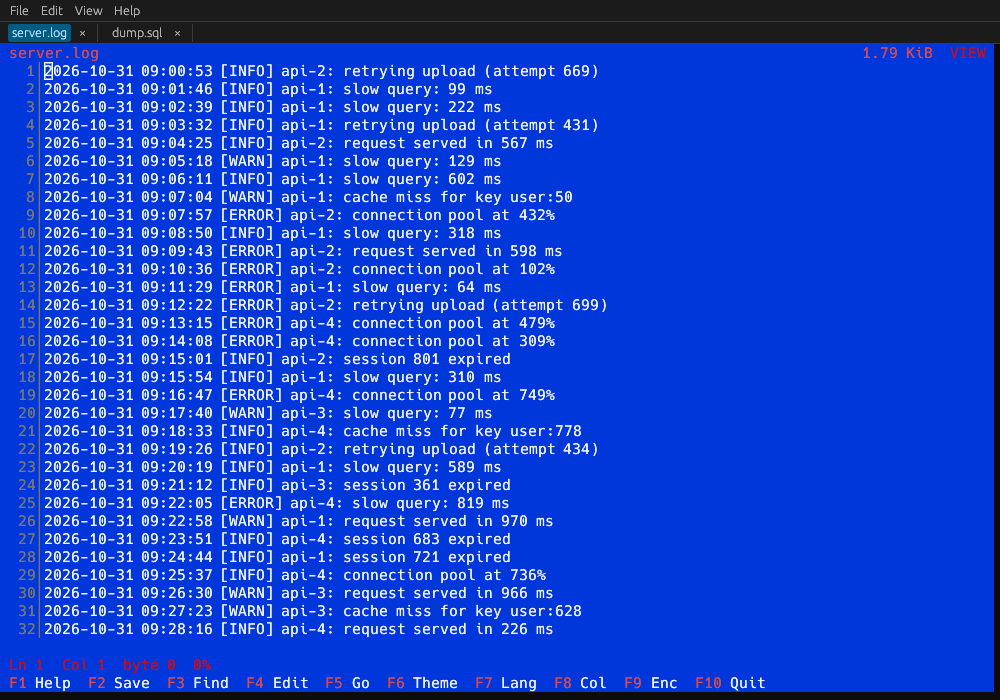
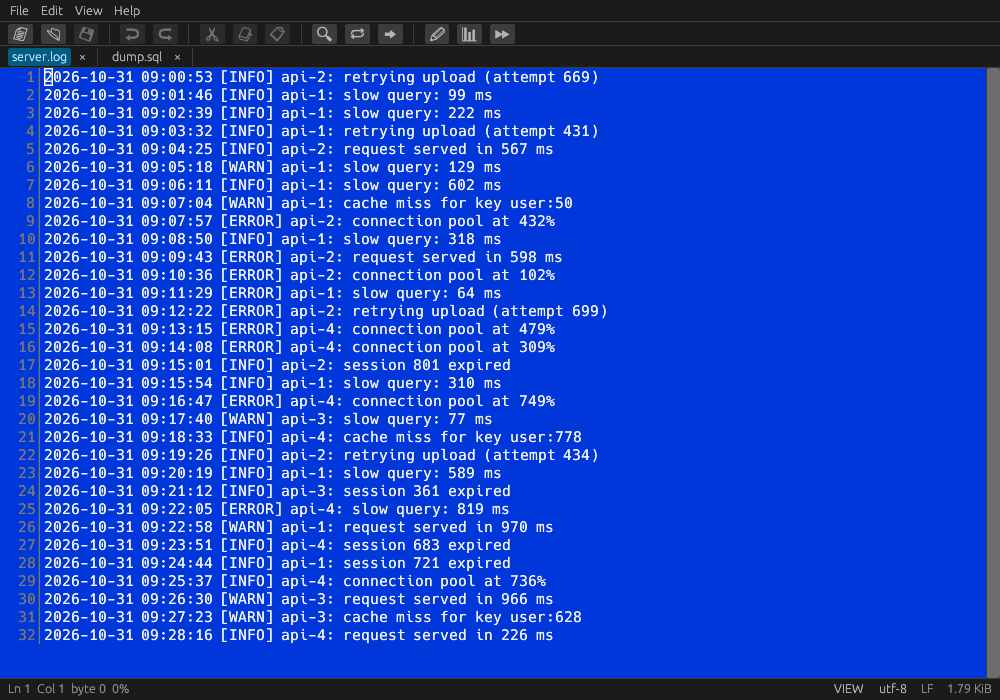
Fondo del tema attorno alla griglia, nuove schermate e README della finestra (B6)
Claude-Session: https://claude.ai/code/session_01VDQSbnQ7zjbDG95g4ox1oC

Changed region(s): [[0.0, 0.03, 1.0, 0.99]]

diff --git a/rust/crates/mrp-gui/src/gui.rs b/rust/crates/mrp-gui/src/gui.rs
@@ -103,6 +103,9 @@ pub struct Finestra {
     /// Le voci del menu contestuale nell'ultimo disegno e il rettangolo di tutto il menu (vuote / `NOTHING`: chiuso).
     contestuale_voci: Vec<(Rect, Cmd)>,
     contestuale_rect: Rect,
+    /// Il colore di fondo della griglia nell'ultimo disegno (l'ultima cella): riempie anche il resto dell'area che non
+    /// basta per una riga o una colonna intera.
+    fondo: [u8; 3],
 }
 
 impl Finestra {
@@ -173,6 +176,7 @@ impl Finestra {
             contestuale: None,
             contestuale_voci: Vec::new(),
             contestuale_rect: Rect::NOTHING,
+            fondo: BG_PREDEFINITO,
         }
     }
 
@@ -218,6 +222,11 @@ impl Finestra {
     /// vuote se e' chiuso.
     pub fn contestuale_voci(&self) -> &[(Rect, Cmd)] {
         &self.contestuale_voci
+    }
+
+    /// Il colore di fondo della griglia nell'ultimo disegno (per i test).
+    pub fn fondo(&self) -> [u8; 3] {
+        self.fondo
     }
 
     /// L'`App` della scheda attiva (per i test).
@@ -1010,7 +1019,7 @@ impl Finestra {
             self.presa_scroll = None;
         }
         egui::CentralPanel::default()
-            .frame(Frame::NONE.fill(paint::colore(BG_PREDEFINITO)))
+            .frame(Frame::NONE.fill(paint::colore(self.fondo)))
             .show(ctx, |ui| {
                 let area = ui.available_rect_before_wrap();
                 let colonne = input::celle_in(area.width(), cella.x, COLONNE_MIN);
@@ -1021,6 +1030,9 @@ impl Finestra {
                 }
                 self.ws.tick();
                 let griglia = render_grid_workspace(&mut self.ws, colonne, righe);
+                if let Some(c) = griglia.celle.last() {
+                    self.fondo = c.bg;
+                }
                 // testo asiatico in un file che non lo dichiara (UTF-8, UTF-16...): il font si carica al primo che si vede
                 let mut nuova = false;
                 for c in griglia.celle.iter().flat_map(|c| c.simbolo.chars()) {

diff --git a/rust/crates/mrp-gui/tests/tema.rs b/rust/crates/mrp-gui/tests/tema.rs
@@ -145,3 +145,18 @@ fn picking_a_theme_in_the_menu_switches_the_controls() {
     assert!(!scuri(&ctx), "i controlli sono passati al chiaro");
     let _ = std::fs::remove_file(p);
 }
+
+#[test]
+fn the_area_around_the_grid_has_the_theme_background() {
+    // il resto dell'area che non basta per una riga intera non e' piu' nero: ha il fondo del tema (Scuro #1e1e1e, Chiaro bianco)
+    for (tema, fondo) in [
+        (ThemeId::Dark, [0x1e, 0x1e, 0x1e]),
+        (ThemeId::Light, [0xff, 0xff, 0xff]),
+    ] {
+        let (mut f, ctx, p) = finestra(tema);
+        giro(&mut f, &ctx, vec![]);
+        giro(&mut f, &ctx, vec![]);
+        assert_eq!(f.fondo(), fondo, "{tema:?}");
+        let _ = std::fs::remove_file(p);
+    }
+}

diff --git a/README.it.md b/README.it.md
@@ -11,7 +11,7 @@
       </p>
       <p>
         <a href="https://github.com/heavymanto/Manto.RustPad/actions/workflows/ci.yml"><img src="https://github.com/heavymanto/Manto.RustPad/actions/workflows/ci.yml/badge.svg" alt="CI" /></a>
-        <img src="https://img.shields.io/badge/test-960-brightgreen" alt="960 test" />
+        <img src="https://img.shields.io/badge/test-961-brightgreen" alt="961 test" />
         <img src="https://img.shields.io/badge/programmi-mrp--tui%20%C2%B7%20mrp--gui-blue" alt="mrp-tui e mrp-gui" />
         <img src="https://img.shields.io/badge/lingue-7-blue" alt="sette lingue" />
         <img src="https://img.shields.io/badge/licenza-AGPL--3.0-brightgreen" alt="AGPL-3.0" />
@@ -23,8 +23,8 @@
 </table>
 
 <div align="center">
-<img src="docs/img/gui-console.png" alt="mrp-gui, la finestra: due schede, numeri di riga, i tasti nel piede" width="80%" />
-<br /><sub><b>mrp-gui</b> — lo stesso editor, disegnato in una finestra: un log e un dump SQL aperti in due schede.</sub>
+<img src="docs/img/gui-light.png" alt="mrp-gui, la finestra: barra dei menu, barra degli strumenti, due schede, numeri di riga, barra di stato e scorrimento" width="80%" />
+<br /><sub><b>mrp-gui</b> — la finestra: menu, barra degli strumenti, schede, barra di stato e scorrimento, con un log e un dump SQL aperti in due schede.</sub>
 </div>
 
 ---
@@ -79,17 +79,18 @@ compilalo dai sorgenti: bastano due comandi, vedi l'[Avvio rapido](#avvio-rapido
 
 | `mrp-tui` — nel terminale | `mrp-gui` — in una finestra |
 |:---:|:---:|
-| ![mrp-tui: il dialogo Sostituisci con l'anteprima, nel terminale](docs/img/tui-replace.png) | ![mrp-gui: lo stesso editor in una finestra](docs/img/gui-night.png) |
+| ![mrp-tui: il dialogo Sostituisci con l'anteprima, nel terminale](docs/img/tui-replace.png) | ![mrp-gui: la finestra, tema scuro](docs/img/gui-dark.png) |
 
 | | `mrp-tui` | `mrp-gui` |
 | --- | --- | --- |
-| **Cos'è** | un editor a tutto schermo per qualsiasi terminale (ratatui) | lo stesso editor disegnato in una finestra (egui), con gli appunti di sistema, i caratteri CJK e il trascinamento dei file |
-| **Avvio** | `mrp-tui file...` | `mrp-gui file...` (senza file apre il dialogo di apertura) |
-| **Menu** | i tasti funzione, mostrati nel piede (`F1` = aiuto) | una barra dei menu (File, Modifica, Visualizza, Aiuto) e il dialogo nativo di apertura |
+| **Cos'è** | un editor a tutto schermo per qualsiasi terminale (ratatui), pensato per server e SSH | un'applicazione desktop (egui): menu, barra degli strumenti, barra di stato, scorrimento e dialoghi veri, gli appunti di sistema, i caratteri CJK e il trascinamento dei file |
+| **Avvio** | `mrp-tui file...` | `mrp-gui file...` (senza file riprende l'ultima sessione, o apre un "Senza nome 1" vuoto) |
+| **Menu** | i tasti funzione, mostrati nel piede (`F1` = aiuto) | una barra dei menu (File, Modifica, Visualizza, Aiuto), una barra degli strumenti con le icone, il menu del tasto destro e i dialoghi nativi di apertura e salvataggio |
 | **Schede** | una barra sulla prima riga, una scheda per file | una striscia con il pulsante di chiusura per ogni scheda |
+| **Aspetto** | quattro temi da terminale | sei temi; segue l'impostazione chiaro / scuro del sistema finché non ne scegli uno |
 | **Il mouse** | posiziona il cursore, seleziona (doppio clic: parola, triplo: riga), sceglie la scheda | lo stesso, e il clic centrale chiude una scheda |
 
-Sono **lo stesso codice**: la logica dell'editor sta in un posto solo e `mrp-gui` si limita a disegnarne la griglia di celle. Una funzione aggiunta a uno c'è anche nell'altro.
+Condividono **un solo motore**: la logica dell'editor (documenti, schede, ricerca, modifiche, sessioni) sta in un posto solo; `mrp-gui` disegna il testo come la stessa griglia di celle, ma la avvolge nei propri controlli nativi. Una funzione aggiunta al motore c'è in entrambi.
 
 ## Cosa fa
 
@@ -108,7 +109,7 @@ Sono **lo stesso codice**: la logica dell'editor sta in un posto solo e `mrp-gui
 - **Onesto con le codifiche.** UTF-8, UTF-16 e UTF-32 (little e big endian, coppie surrogate comprese), 52 tabelle di caratteri a byte singolo
   (Windows-125x e 874, ISO-8859-x, DOS 437/850/855/…, KOI8, i set Mac, US-ASCII) e le codifiche asiatiche a più byte (Shift_JIS, EUC-JP,
   GBK, GB18030, Big5, EUC-KR), su file più grandi della RAM. Si scelgono con `F9` o `--encoding`, o si riconoscono all'apertura (quelle a più byte non si indovinano mai: si scelgono a mano).
-- **Quattro temi e sette lingue** (English, Deutsch, Español, Italiano, 日本語, Português do Brasil, 简体中文), che si cambiano al volo con `F6` / `F7`.
+- **Sei temi e sette lingue** (English, Deutsch, Español, Italiano, 日本語, Português do Brasil, 简体中文), che si cambiano al volo con `F6` / `F7`.
 
 Fuori dagli obiettivi: un analizzatore di log (usa lnav, logana, klogg) e una piattaforma di plugin/IDE.
 
@@ -119,7 +120,9 @@ Fuori dagli obiettivi: un analizzatore di log (usa lnav, logana, klogg) e una pi
 | ![night](docs/img/gui-night.png) | ![debian](docs/img/gui-debian.png) |
 | `night` | `debian` |
 | ![console](docs/img/gui-console.png) | ![minimal](docs/img/gui-minimal.png) |
-| `console` (il predefinito) | `minimal` |
+| `console` (il predefinito nel terminale) | `minimal` |
+| ![dark](docs/img/gui-dark.png) | ![light](docs/img/gui-light.png) |
+| `dark` (scuro) | `light` (chiaro) |
 
 L'immagine del terminale in *Due programmi* mostra Sostituisci con la sua anteprima prima che cambi qualcosa (`Ctrl+H`, poi `Alt+M` per il modo, `Alt+C` per le maiuscole, `Alt+A` per l'ambito).
 <sub>È generata dal testo dell'opzione `--dump` dell'editor, quindi è senza colori; il terminale vero usa quelli del tema.</sub>
@@ -145,7 +148,7 @@ Per provare le funzioni a più file: `mrp-tui a.txt b.txt c.txt`, poi `Ctrl+H`, 
 
 ## Limiti noti
 
-- **Sviluppo iniziale.** L'editor funziona ed è coperto da 960 test automatici (più 3 su file da 6 GB oltre i 4 GiB, da lanciare a richiesta), ma non è stato
+- **Sviluppo iniziale.** L'editor funziona ed è coperto da 961 test automatici (più 3 su file da 6 GB oltre i 4 GiB, da lanciare a richiesta), ma non è stato
   usato a lungo da molte persone. Tieni una copia di ciò che conta.
 - **Prima di tutto Windows.** È stato usato soprattutto su Windows. L'editor da terminale e tutto il motore (con i loro test) sono stati provati anche su **Linux** (Debian, sotto WSL);
   la finestra `mrp-gui` su Linux/macOS e macOS in generale non sono provati. La CI lancia i test su tutti e tre i sistemi a ogni push.

diff --git a/README.md b/README.md
@@ -11,7 +11,7 @@
       </p>
       <p>
         <a href="https://github.com/heavymanto/Manto.RustPad/actions/workflows/ci.yml"><img src="https://github.com/heavymanto/Manto.RustPad/actions/workflows/ci.yml/badge.svg" alt="CI" /></a>
-        <img src="https://img.shields.io/badge/tests-960-brightgreen" alt="960 tests" />
+        <img src="https://img.shields.io/badge/tests-961-brightgreen" alt="961 tests" />
         <img src="https://img.shields.io/badge/frontends-mrp--tui%20%C2%B7%20mrp--gui-blue" alt="mrp-tui and mrp-gui" />
         <img src="https://img.shields.io/badge/languages-7-blue" alt="seven languages" />
         <img src="https://img.shields.io/badge/license-AGPL--3.0-brightgreen" alt="AGPL-3.0" />
@@ -23,8 +23,8 @@
 </table>
 
 <div align="center">
-<img src="docs/img/gui-console.png" alt="mrp-gui, the desktop window: two tabs, line numbers, the keys in the footer" width="80%" />
-<br /><sub><b>mrp-gui</b> — the same editor, drawn in a window: a log and a SQL dump open in two tabs.</sub>
+<img src="docs/img/gui-light.png" alt="mrp-gui, the desktop window: menu bar, toolbar, two tabs, line numbers, status bar and scrollbar" width="80%" />
+<br /><sub><b>mrp-gui</b> — the desktop window: menu, toolbar, tabs, status bar and scrollbar, with a log and a SQL dump open in two tabs.</sub>
 </div>
 
 ---
@@ -79,17 +79,18 @@ The packages (a ZIP for Windows, a tar.gz for Linux and macOS, each with its SHA
 
 | `mrp-tui` — in the terminal | `mrp-gui` — in a window |
 |:---:|:---:|
-| ![mrp-tui: the Replace dialog with a preview, in the terminal](docs/img/tui-replace.png) | ![mrp-gui: the same editor in a desktop window](docs/img/gui-night.png) |
+| ![mrp-tui: the Replace dialog with a preview, in the terminal](docs/img/tui-replace.png) | ![mrp-gui: the desktop window, dark theme](docs/img/gui-dark.png) |
 
 | | `mrp-tui` | `mrp-gui` |
 | --- | --- | --- |
-| **What it is** | a full-screen editor for any terminal (ratatui) | the same editor drawn in a window (egui), with the system clipboard, CJK fonts and drag-and-drop |
-| **Start it** | `mrp-tui file...` | `mrp-gui file...` (without a file it opens the file dialog) |
-| **Menus** | the function keys, shown in the footer (`F1` = help) | a menu bar (File, Edit, View, Help) and the native open dialog |
+| **What it is** | a full-screen editor for any terminal (ratatui), made for servers and SSH | a desktop application (egui): real menus, toolbar, status bar, scrollbar and dialogs, the system clipboard, CJK fonts and drag-and-drop |
+| **Start it** | `mrp-tui file...` | `mrp-gui file...` (without a file it restores the last session, or opens an empty "Untitled 1") |
+| **Menus** | the function keys, shown in the footer (`F1` = help) | a menu bar (File, Edit, View, Help), a toolbar with icons, a right-click menu and the native open / save dialogs |
 | **Tabs** | a bar on the first row, one tab per file | a strip with a close button per tab |
+| **Look** | four terminal themes | six themes; follows the system light / dark setting until you pick one |
 | **The mouse** | positions the cursor, selects (double click: word, triple click: row), picks a tab | the same, and middle-click closes a tab |
 
-Both are the **same code**: the editor's logic lives in one place and `mrp-gui` just draws its cell grid. A feature added to one is in the other.
+Both share **one engine**: the editor's logic (documents, tabs, search, edits, sessions) lives in one place; `mrp-gui` draws the text as the same cell grid but wraps it in its own native controls. A feature added to the engine is in both.
 
 ## What it does
 
@@ -108,7 +109,7 @@ Both are the **same code**: the editor's logic lives in one place and `mrp-gui` 
 - **Honest about encodings.** UTF-8, UTF-16 and UTF-32 (little and big endian, surrogate pairs included), 52 single-byte code pages
   (Windows-125x and 874, ISO-8859-x, DOS 437/850/855/…, KOI8, the Mac sets, US-ASCII) and the East-Asian multi-byte encodings (Shift_JIS, EUC-JP,
   GBK, GB18030, Big5, EUC-KR) — on files larger than RAM. Chosen with `F9` or `--encoding`, or recognised at open (the multi-byte ones are never guessed: pick them by hand).
-- **Four themes and seven languages** (English, Deutsch, Español, Italiano, 日本語, Português do Brasil, 简体中文), changed on the fly with `F6` / `F7`.
+- **Six themes and seven languages** (English, Deutsch, Español, Italiano, 日本語, Português do Brasil, 简体中文), changed on the fly with `F6` / `F7`.
 
 Non-goals: a log analyser (use lnav, logana, klogg) and a plugin/IDE platform.
 
@@ -119,7 +120,9 @@ Non-goals: a log analyser (use lnav, logana, klogg) and a plugin/IDE platform.
 | ![night](docs/img/gui-night.png) | ![debian](docs/img/gui-debian.png) |
 | `night` | `debian` |
 | ![console](docs/img/gui-console.png) | ![minimal](docs/img/gui-minimal.png) |
-| `console` (the default) | `minimal` |
+| `console` (the default in the terminal) | `minimal` |
+| ![dark](docs/img/gui-dark.png) | ![light](docs/img/gui-light.png) |
+| `dark` | `light` |
 
 The terminal picture in *Two front ends* is Replace showing its preview before anything changes (`Ctrl+H`, then `Alt+M` for the mode, `Alt+C` for case, `Alt+A` for the scope).
 <sub>It is rendered from the editor's own `--dump` text output, so it has no colours; the real terminal uses the theme's.</sub>
@@ -145,7 +148,7 @@ Try the multi-file features: `mrp-tui a.txt b.txt c.txt`, then `Ctrl+H`, type a 
 
 ## Known limitations
 
-- **Early development.** The editor works and is covered by 960 automated tests (plus 3 on 6 GB files beyond 4 GiB, run on demand), but it has not been
+- **Early development.** The editor works and is covered by 961 automated tests (plus 3 on 6 GB files beyond 4 GiB, run on demand), but it has not been
   used for long by many people. Keep a backup of anything precious.
 - **Windows first.** It has been used mostly on Windows. The terminal editor and the whole core (and their tests) were also run on **Linux** (Debian, under WSL);
   the Linux/macOS desktop window (`mrp-gui`) and macOS in general are untried. The CI runs the test suite on all three systems at every push.

diff --git a/CHANGELOG.md b/CHANGELOG.md
@@ -7,6 +7,10 @@ Format inspired by "Keep a Changelog". No release has been made yet.
 ### Changed
 - **`PieceTable` keeps its pieces in blocks** (at most 512 pieces each, with the byte total of each block) and an insert or delete rewrites only a small window around the change instead of copying the whole list; `len()` is O(1). Scattered edits: 1.8 ms → 0.9 µs per edit at 40,000 pieces, 2.6 µs at 400,000 ([docs/BENCHMARKS.md](docs/BENCHMARKS.md)). `PieceTable::pieces()` now returns a `Vec<Piece>` (a copy); `piece_count`, `piece`, `iter`, `with_chunk_capacity` and `Document::open_with_chunk` are new. 9 new tests with blocks of 4 pieces against a naive oracle. 
 - **The line-number table is incremental** (`Document::line_count`, `offset_of_line`, `line_at_offset`): every block of the piece list has a label (`PieceTable::chunk_stamp`) that changes only when its pieces change, and the document remembers how many `\n` each label holds, so an edit makes it count again only the touched blocks instead of rebuilding a table over all the pieces. With a line count asked after every edit: 2.0 ms → 14 µs per edit at 40,000 pieces, 37 µs at 199,000. New: `PieceTable::chunk_count`, `chunk_pieces`, `chunk_len`, `chunk_stamp`, `Document::chunk_aggregations` (a diagnostic counter). 12 new tests ([docs/BENCHMARKS.md](docs/BENCHMARKS.md)).
+- **README**: new screenshots of the window (six themes, light and dark) and a rewritten comparison of the two front ends (one engine, native controls in the window).
+
+### Fixed
+- **The strip under the text in the window** (the leftover space that does not fit a whole row) was always near-black; it now has the theme background (white in Light).
 
 ### Added
 - **Context menu in the window** (task B5b): right-click on the text opens a small menu at the pointer with Undo, Redo, Cut, Copy, Paste, Select all and Find (entries that make no sense now are greyed out and do nothing). Esc or a click elsewhere closes it; it never opens over a dialog, the menu bar or the toolbar. 11 new tests.
